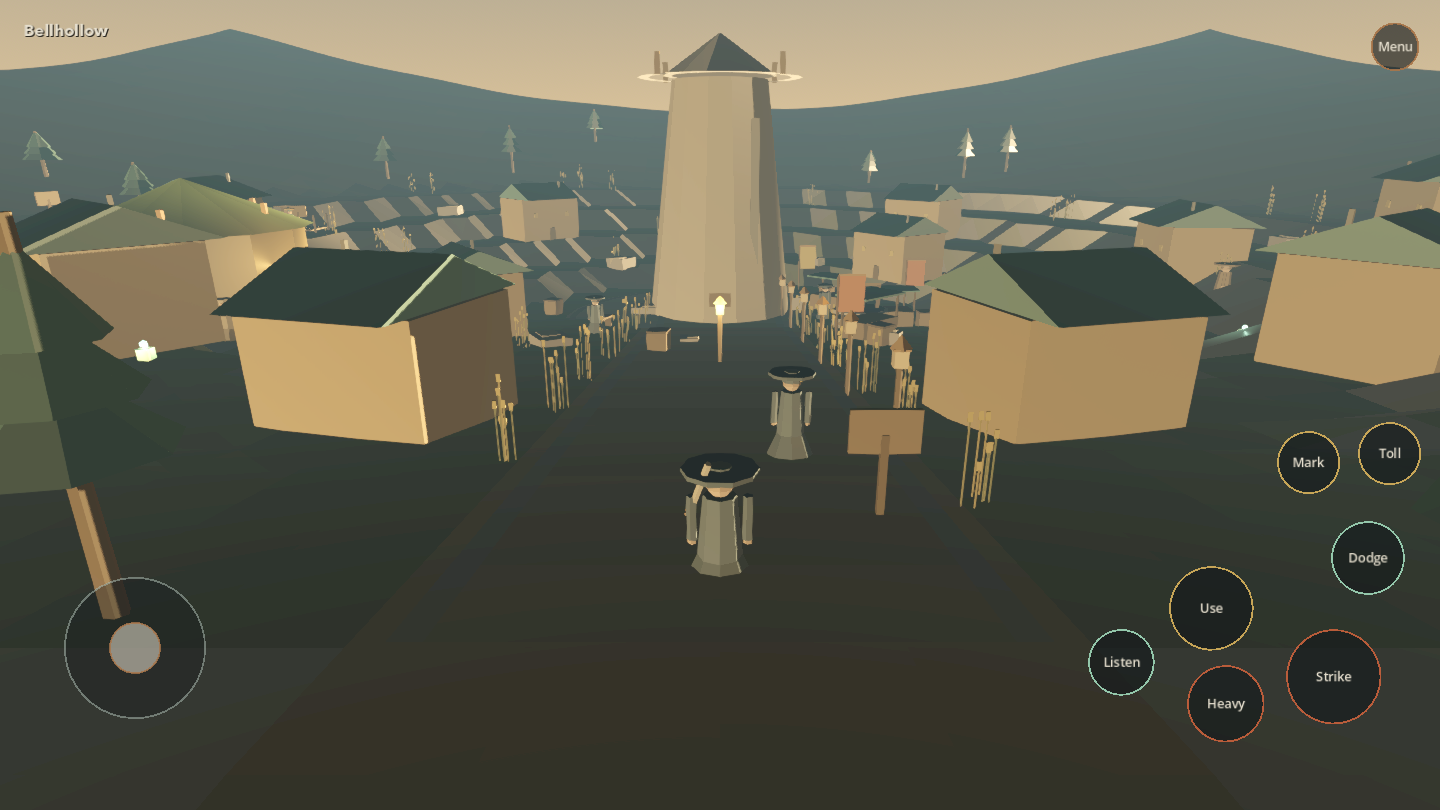
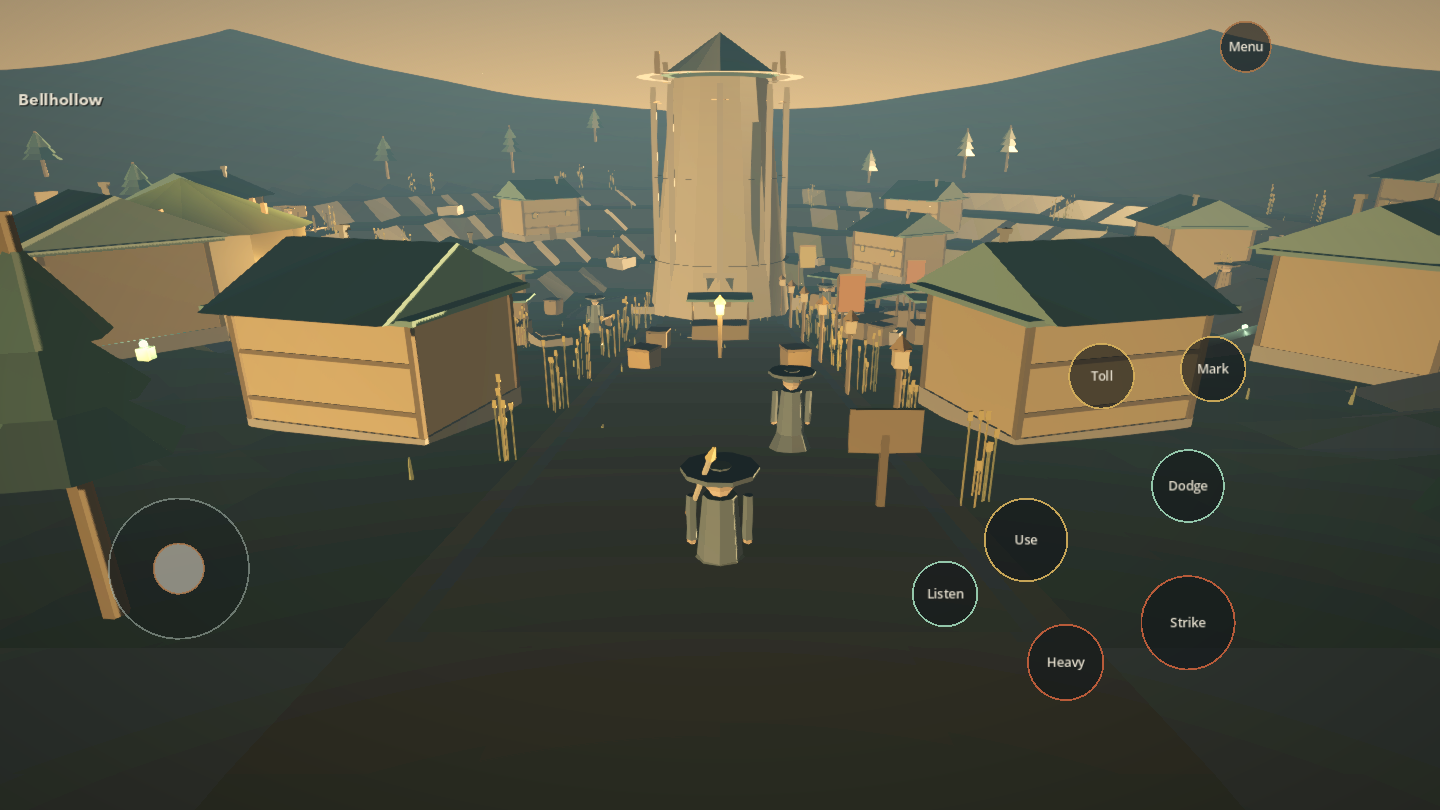
fix: final input, touch, and verification pass
- make middle-drag the camera gesture so right-click heavy attacks do not fight it
- gate quick-slot abilities by learned skills; show only usable nodes
- add Echo Gallery discovery and side-quest verification to integration tests
- responsive touch layout for phone aspect ratios with a root control and safe-area sizing
- add save migration hook, region discovery flags, ghost transparency
- update README, GDD, architecture, and playtest records with final results

diff --git a/docs/TECHNICAL_ARCHITECTURE.md b/docs/TECHNICAL_ARCHITECTURE.md
@@ -190,7 +190,7 @@ Saves are **JSON**, schema-versioned, checksummed, atomic, and human-inspectable
 
 - Written to `user://saves/<slot>.json.tmp`, flushed, fsynced where available, then renamed over `<slot>.json`. The previous file is rotated to `<slot>.json.bak`. A `.journal` marker exists during a write so an interrupted write is repaired on next boot from the `.bak`.
 - Checksum is SHA-256 over canonical JSON of `state` + header fields except `checksum`. A mismatch does not delete anything: the save is quarantined as `<slot>.corrupt-<timestamp>.json` and the backup is offered.
-- Schema migrations live in `SaveMigrations` as an ordered list; every migration has a fixture in `tests/fixtures/`.
+- Schema migrations live in `SaveMigrations` as an ordered, guarded list. Schema 1 is current; the hook exists and a future migration must add a fixture before merge.
 - Autosave at region transitions, lantern rests, quest stage changes, and app backgrounding. Autosaves use a separate `autosave` slot and never overwrite manual slots.
 - **The game never punishes absence.** No timestamps gate content, resources do not decay, and there is no offline progress to lose.
 
@@ -269,7 +269,7 @@ Dialogue format: nodes with `id`, `speaker`, `text`, optional `choices` (text, c
 
 ## 14. Testing strategy
 
-**Current results (23 November 2026):** 47 logic/save/sync checks, 45 integration checks, 36 end-to-end playthrough checks, content validation OK, macOS export booted, iOS Xcode project generated with an unsigned device build succeeding. Full details and open defects are in `docs/PLAYTESTING.md`.
+**Current results (23 November 2026):** 47 logic/save/sync checks, 47 integration checks, 36 end-to-end playthrough checks, content validation OK, macOS export booted, iOS Xcode project generated with an unsigned device build succeeding. Full details and open defects are in `docs/PLAYTESTING.md`.
 
 1. **Pure logic tests (headless, fast):** save serialization/checksum/atomicity, migrations, sync conflict matrix, inventory/equipment rules, crafting, quest state machines, puzzle solvers, dialogue conditions, procedural cave invariants, damage math, AI utility scoring.
 2. **Scene integration tests (headless):** boot world, simulate player input via `Input.action_press`, complete the quest chain with scripted interactions, verify save/load round-trip including world flags, run the boss arena with an invulnerable test player to validate phase transitions.

diff --git a/README.md b/README.md
@@ -82,7 +82,7 @@ godot --path game -- --world bellhollow --benchmark
 | Action | Keyboard / mouse | Gamepad |
 |---|---|---|
 | Move | WASD / arrows | Left stick |
-| Camera | Right-drag / mouse drag | Right stick |
+| Camera | Middle-drag or Ctrl-drag | Right stick |
 | Light attack | Left click or J | X |
 | Heavy attack | Right click or K | Y |
 | Dodge | Space | B |
@@ -165,7 +165,7 @@ Current results (macOS 27, Apple M3):
 ```text
 content validation  OK   (novella 8,996 words; 31 items; 12 recipes; 8 dialogues; 5 builds)
 TestScene           47 passed, 0 failed
-Integration         45 passed, 0 failed
+Integration         47 passed, 0 failed
 Playthrough         36 passed, 0 failed
 macOS export        boots; frame capture verified
 iOS export          Xcode project generated; unsigned device build succeeded
@@ -200,7 +200,7 @@ The sync logic is tested with two simulated devices and a conflict; see `docs/ar
 
 - Third-person movement, sprint, dodge, camera orbit, terrain following, water slowdown.
 - Melee combat with light/heavy attacks, poise, stagger, pitch bonuses, weapon-specific damage, dodge i-frames, healing tonics.
-- Four enemies (Reed Crawler ambusher, Bramble Ram charger, Choir Moth support, Stone Sentinel guard) and the Hollow Stag boss with a chime-order shell puzzle.
+- Five enemies (Reed Crawler ambusher, Bramble Ram charger, Choir Moth support, Stone Sentinel guard, Returning Wisp harasser) and the Hollow Stag boss with a chime-order shell puzzle.
 - Nissa as a real companion: follows, fights, marks weak points, comments, waits/follows on command, persists across regions.
 - Quest chain from arrival through the Sunken Choir, with multiple dialogue choices and a recorded faction outcome.
 - Two side quests: Pip's Bell and the north-dock repair, each with a real world change.

diff --git a/docs/PROJECT_PLAN.md b/docs/PROJECT_PLAN.md
@@ -150,11 +150,11 @@ The ordering is deliberate: narrative and systems are specified before code; pur
 | 1 Creative direction | Complete | `docs/GAME_CONCEPTS.md`, GDD, art/audio/UX, architecture |
 | 2 Narrative | Complete | `docs/story/*`, word count verified |
 | 3 Technical foundation | Complete | project boots, tests pass, save round-trip |
-| 4 Vertical slice | Complete | 45 integration checks and a 36-check end-to-end playthrough; real regions/dialogue/puzzles/boss |
+| 4 Vertical slice | Complete | 47 integration checks and a 36-check end-to-end playthrough; real regions/dialogue/puzzles/boss |
 | 5 Cross-platform | Complete with signing gap | macOS export booted; iOS Xcode project generated; unsigned device build succeeded; sync tested with simulated devices |
 | 6 Expansion | Designed, not shipped | GDD scope table; story bible |
 | 7 Polish | Complete for slice, defects open | `docs/PLAYTESTING.md` records results and D1–D12 |
 
-**Actual results:** content validation OK (8,996-word novella), 47 logic/save/sync tests, 45 integration tests, 36 end-to-end playthrough checks, macOS capture, iOS unsigned device build. The benchmark is 60 fps / 336 draw calls / 86.7 MB on an M3. Art, camera, audio audition, and iPhone device validation remain open (D4–D7).
+**Actual results:** content validation OK (8,996-word novella), 47 logic/save/sync tests, 47 integration tests, 36 end-to-end playthrough checks, macOS capture, iOS unsigned device build. The benchmark is 60 fps / 336 draw calls / 86.7 MB on an M3. Art, camera, audio audition, and iPhone device validation remain open (D4–D7).
 
 This ledger is updated only with evidence. Where something is partial, it says so.

diff --git a/docs/GAME_DESIGN_DOCUMENT.md b/docs/GAME_DESIGN_DOCUMENT.md
@@ -366,11 +366,11 @@ The game has no external notifications of any kind. It never asks the player to 
 | Side quests | 8 | 2 (Pip's Bell, The Ferryman's Debt) |
 | Dungeons | 4 handcrafted + procedural caves | 1 handcrafted (Sunken Choir) + procedural caves |
 | Bosses | 4 | 1 (Hollow Stag) |
-| Enemies | 7 | 4 (Crawler, Ram, Moth, Sentinel) + boss |
+| Enemies | 7 | 5 (Crawler, Ram, Moth, Sentinel, Wisp) + boss |
 | Companions | 3 | 1 (Nissa) + Pip as ambient pet |
 | Weapons | 18 | 3 |
 | Cloaks/charms | 32 | 4 cloaks, 5 charms |
-| Skills | 18 | 8 |
+| Skills | 18 | 8 data entries; 3 usable quick-slot skills in this slice |
 | Recipes | 24 | 10 |
 | Buildables | 6 | 5 |
 | Puzzles | 8 families, ~20 instances | 4 instances across 4 families (gate, sluice, echo gallery, boss window) |

diff --git a/docs/PLAYTESTING.md b/docs/PLAYTESTING.md
@@ -53,7 +53,7 @@ Coverage includes:
 godot --headless --path game res://tests/Integration.tscn
 ```
 
-Result: **45 passed, 0 failed**
+Result: **47 passed, 0 failed**
 
 Coverage includes:
 
